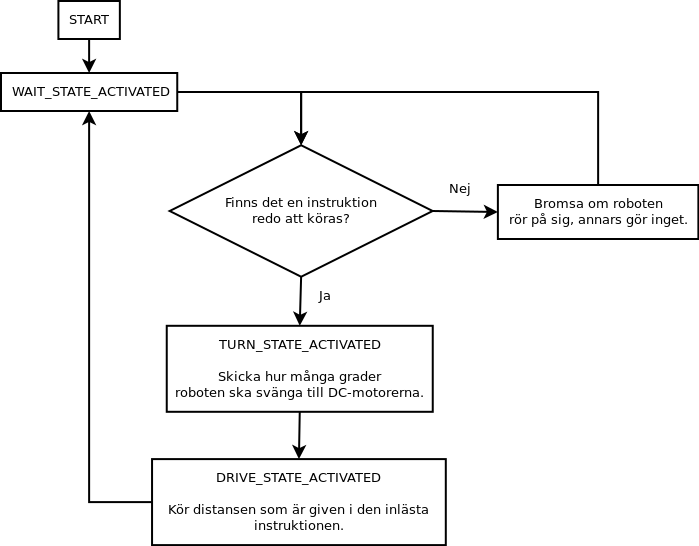
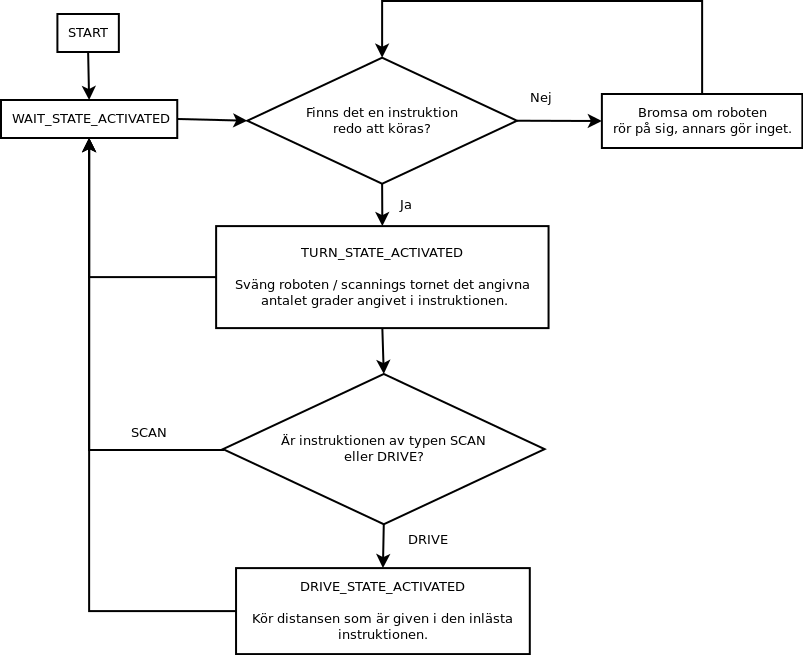
flowchart implemented controlling for AX-12 engine.

diff --git a/doc/designspec/designspec.tex b/doc/designspec/designspec.tex
@@ -221,11 +221,11 @@ Totalt är det fyra motorer som är monterade på chassit som går under namnet 
 Koden ska vara skriven i C, och ska följa standarden specificerad i bilaga \ref{sec:cstandard}. Eftersom nödstoppet ska kunna avbryta vad styrmodulen gör när som helst så är det lämpligt att använda avbrott för detta.
 
 \subsubsection{Tillståndsdiagram}
-Som vi ser i tillstånds schemat för styrenheten \ref{fig:stateDiagram} så har vi totalt 3 olika tillstånd. Medans styrenheten är i tillståndet WAIT så kommer roboten att stå stilla och invänta på en instruktion på hur den ska köra. Notera att en instruktion kan sättas i alla tillstånd, så om roboten redan har en instruktion inläst då tillståndet sätts till WAIT så kommer roboten börja på denna instruktion omedelbart. 
+Som vi ser i tillstånds schemat för styrenheten \ref{fig:stateDiagram} så har vi totalt 3 olika tillstånd. Medans styrenheten är i tillståndet WAIT så kommer roboten att stå stilla och invänta på en instruktion på hur den ska köra. Notera att en instruktion kan sättas i alla tillstånd, så om roboten redan har en instruktion inläst då tillståndet sätts till WAIT så kommer roboten börja på denna instruktion omedelbart.
 
 \begin{figure}[h!]
 	\makebox[\textwidth][c]{\includegraphics[width=0.8\textwidth]{styrenhet_schema.png}}
-	\caption{Tillstånds schema för styrenheten.}
+	\caption{Tillståndsdiagram för styrenheten.}
 	\label{fig:stateDiagram}
 \end{figure}
 
@@ -250,9 +250,10 @@ Implementera en UART-buss som endast går mellan styrenheten och kommunikationse
 
 Styrdatan ska innehålla information om följande punkter:
 \begin{itemize}
-	\item Hur många grader roboten ska svänga
-	\item Hur långt roboten ska köra i den riktningen
-	\item Vilken hastighet roboten ska köra med
+	\item Om instruktionen är av typen SCAN eller DRIVE. SCAN styr AX-12 servon medans DRIVE styr DC motorerna.
+	\item Hur många grader roboten/AX-12 servon ska rotera.
+	\item Hur långt roboten ska köra i den riktningen. Denna information är endast intressan om instruktionen är av typen DRIVE.
+	\item Vilken hastighet de givna motorerna ska köra med.
 \end{itemize}
 
 \newpage
